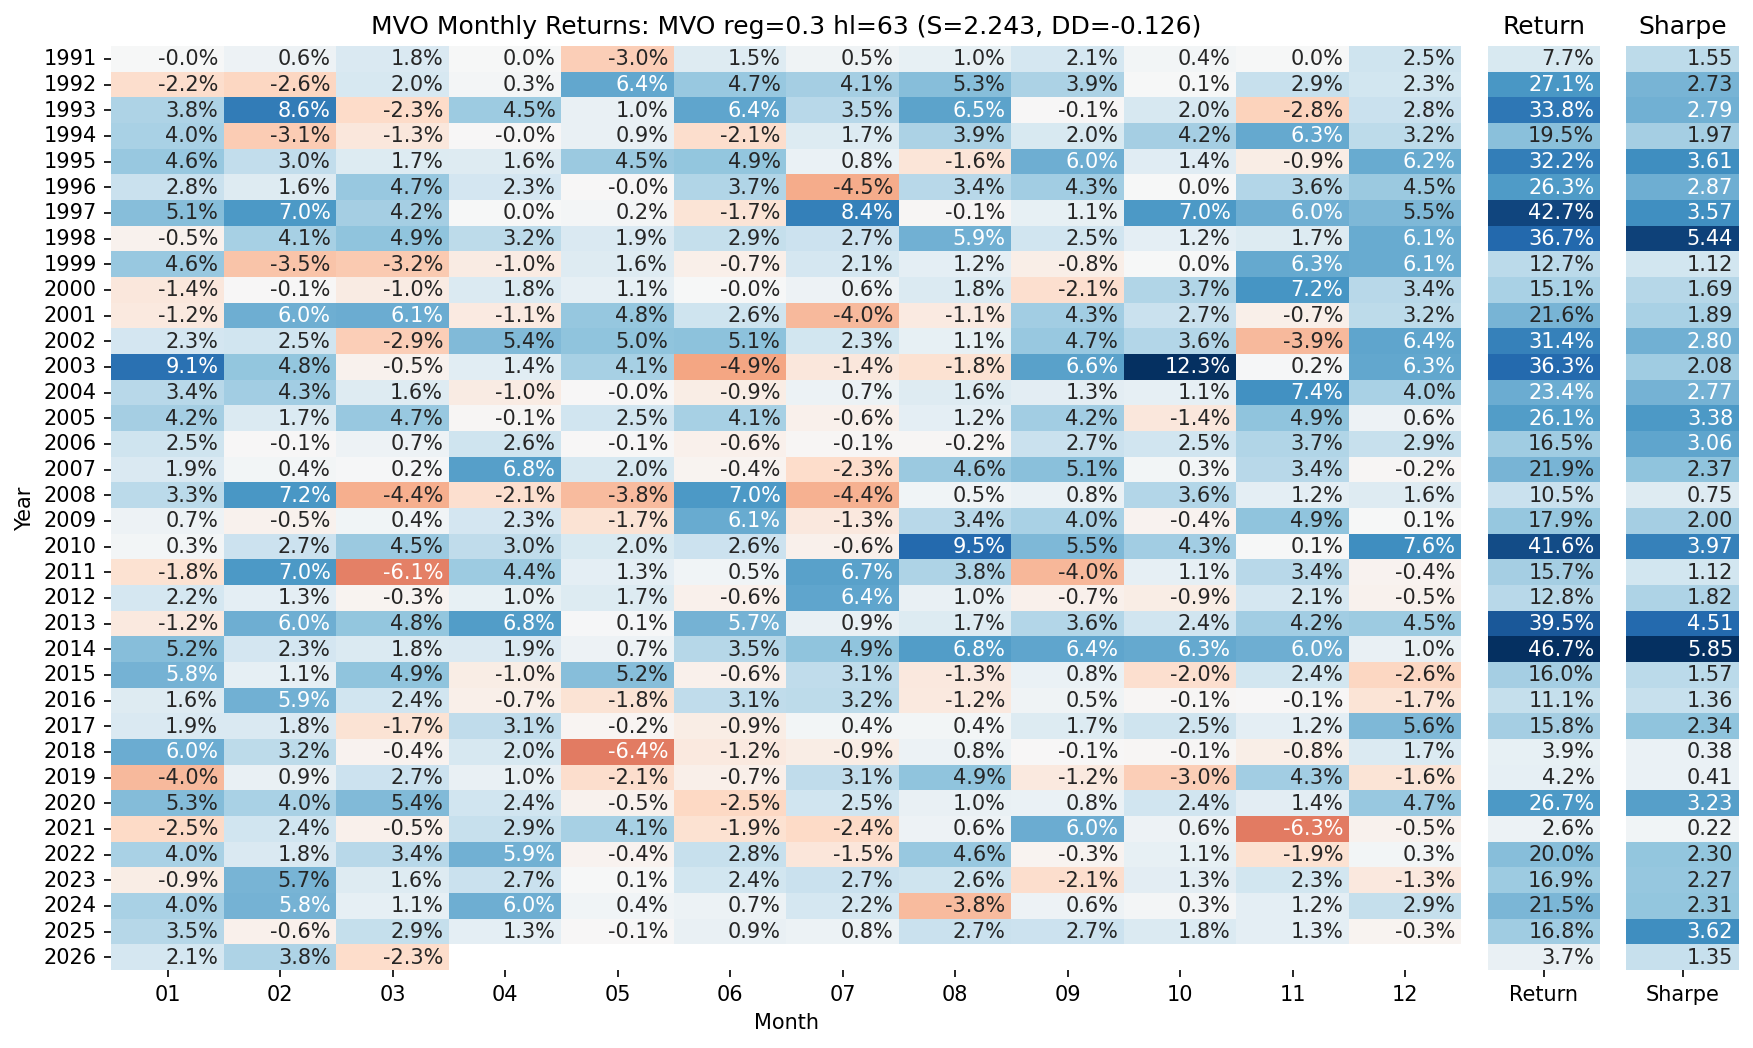
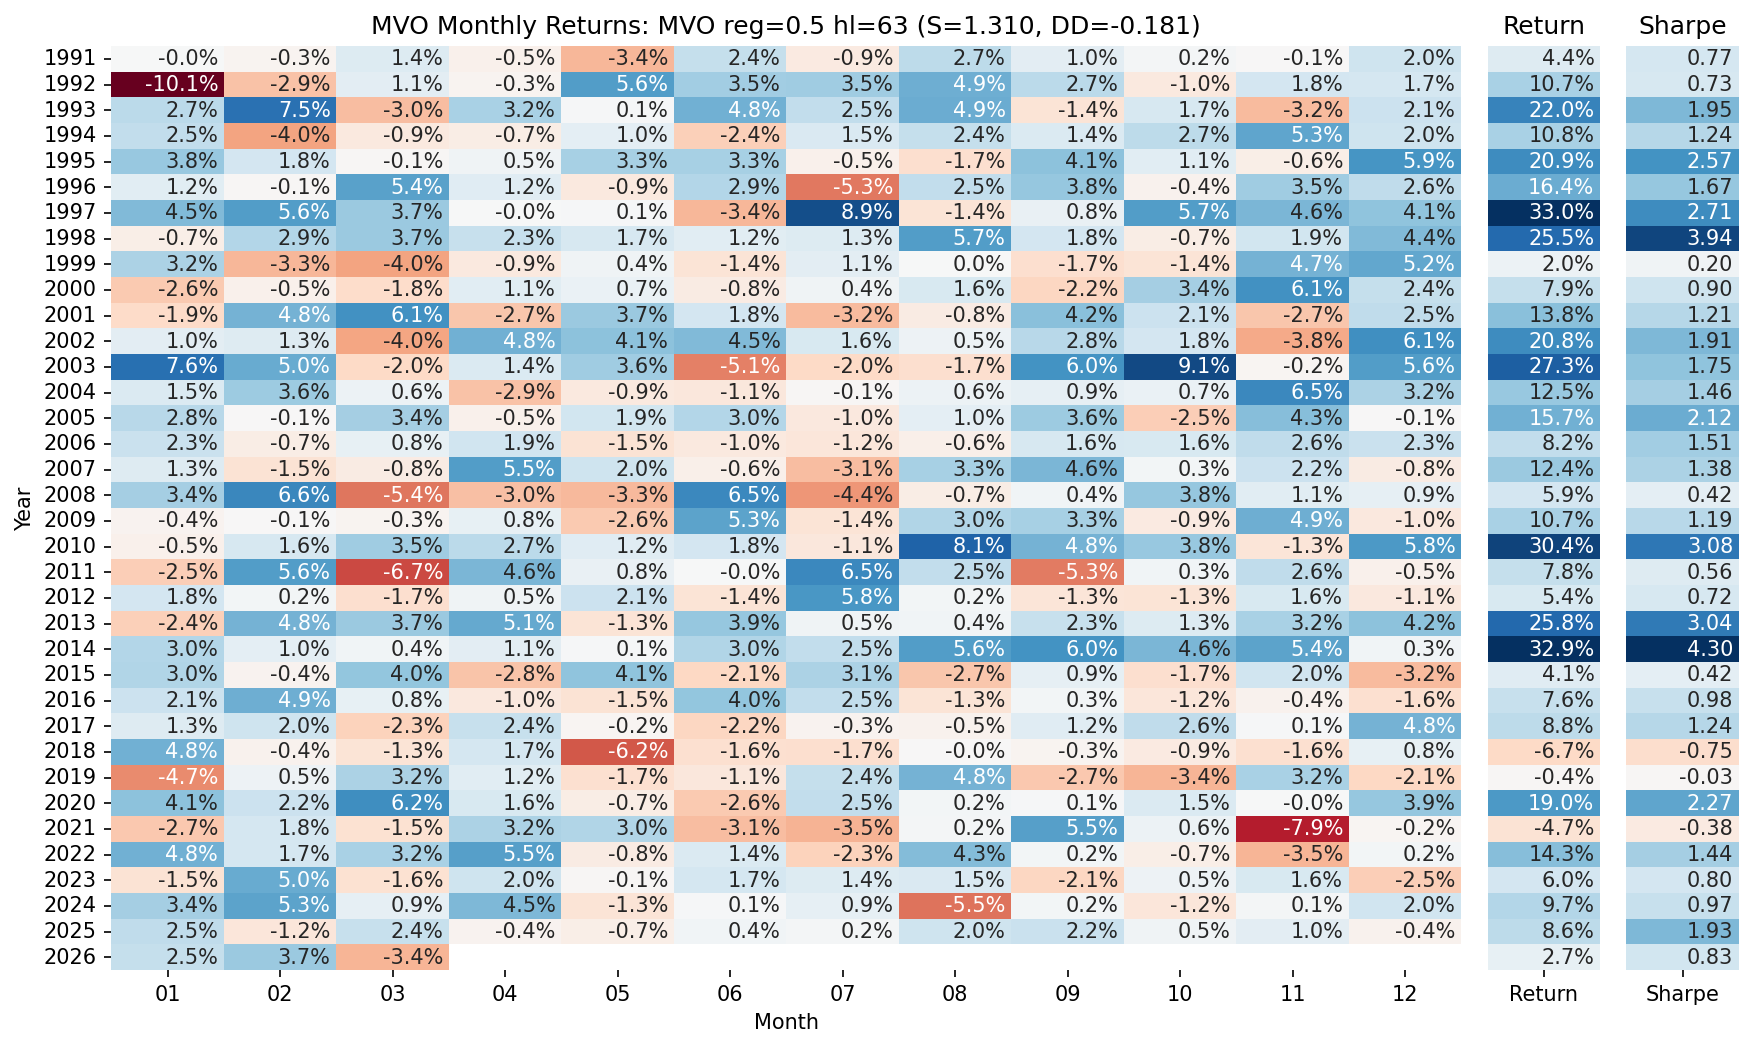
lookahead bug

diff --git a/sweep_mvo.py b/sweep_mvo.py
@@ -87,31 +87,32 @@ def compute_mvo_weights(nr_filled, sig_wide, halflife, reg, warmup=WARMUP_DAYS):
         ret_i = nr_filled[i]
         sig_i = sig_wide[i]
 
-        # Update exponentially-weighted mean and covariance
+        # Compute weights BEFORE updating covariance with today's return,
+        # so the cov matrix only uses returns through day i-1.
+        if i < warmup:
+            weights[i] = sig_i
+        else:
+            # Regularize: shrink toward diagonal
+            diag_cov = np.diag(np.diag(ewm_cov))
+            cov_reg = (1 - reg) * ewm_cov + reg * diag_cov
+
+            # Solve w = Σ^{-1} μ
+            try:
+                w = np.linalg.solve(cov_reg, sig_i)
+            except np.linalg.LinAlgError:
+                w = sig_i
+
+            # Normalize to match equal-weight gross exposure
+            gross = np.abs(w).sum()
+            if gross > 0:
+                w = w / gross * np.abs(sig_i).sum()
+
+            weights[i] = w
+
+        # Update covariance AFTER computing weights (lagged: uses returns through day i)
         diff = ret_i - ewm_mean
         ewm_mean = ewm_mean * (1 - ewm_alpha) + ret_i * ewm_alpha
         ewm_cov = (1 - ewm_alpha) * (ewm_cov + ewm_alpha * np.outer(diff, diff))
-
-        if i < warmup:
-            weights[i] = sig_i
-            continue
-
-        # Regularize: shrink toward diagonal
-        diag_cov = np.diag(np.diag(ewm_cov))
-        cov_reg = (1 - reg) * ewm_cov + reg * diag_cov
-
-        # Solve w = Σ^{-1} μ
-        try:
-            w = np.linalg.solve(cov_reg, sig_i)
-        except np.linalg.LinAlgError:
-            w = sig_i
-
-        # Normalize to match equal-weight gross exposure
-        gross = np.abs(w).sum()
-        if gross > 0:
-            w = w / gross * np.abs(sig_i).sum()
-
-        weights[i] = w
 
     return weights
 

diff --git a/gepa/MVO.md b/gepa/MVO.md
@@ -1,6 +1,8 @@
 # Mean-Variance Optimization (MVO)
 
-Uses the momentum signal as an expected-return vector and a regularized sample covariance matrix to determine contract weights, rather than weighting each contract equally by its signal.
+Uses the momentum signal as an expected-return vector and a regularized
+exponentially-weighted covariance matrix to determine contract weights,
+rather than weighting each contract equally by its signal.
 
 ## Method
 
@@ -12,7 +14,7 @@ w_t = Σ_reg,t⁻¹  μ_t
 
 where:
 - `μ_t` is the signal vector (±1 per contract from the momentum signal)
-- `Σ_reg,t` is a regularized covariance matrix of vol-normalized returns, estimated using an exponentially-weighted moving window with a given halflife, lagged one day
+- `Σ_reg,t` is a regularized covariance matrix of vol-normalized returns, estimated using an exponentially-weighted moving window with a given halflife, using only returns through day t-1 (properly lagged — no lookahead)
 
 Regularization shrinks the sample covariance toward its diagonal (zero cross-correlation):
 
@@ -28,8 +30,6 @@ After solving, weights are rescaled so that gross exposure matches the equal-wei
 
 A minimum of **5 years** (1260 trading days) of data is required before MVO weights are used. During warmup, equal-weight signal positions are used. Evaluation begins 1991-01-24.
 
-This is critical: without the warmup, the poorly estimated early covariance matrix caused the MVO portfolio to concentrate into a few contracts during the 1986–87 drawdown, producing a -0.39 max DD despite having the same unconditional volatility as equal-weight (-0.25). With the warmup, the same aggressive MVO setting achieves -0.13 DD — better than equal-weight on both Sharpe and drawdown.
-
 ## Signal parameters
 
 All variants use the best momentum signal: `vw=60, sm=1, window=247`.
@@ -39,40 +39,39 @@ All variants use the best momentum signal: `vw=60, sm=1, window=247`.
 | Method               | Halflife | λ    | Sharpe | Max DD |
 | -------------------- | -------- | ---- | ------ | ------ |
 | Equal-weight         | —        | —    | 1.12   | -0.194 |
-| MVO                  | 252      | 0.95 | 1.22   | -0.184 |
-| MVO                  | 252      | 0.80 | 1.32   | -0.181 |
-| MVO                  | 126      | 0.50 | 1.61   | -0.156 |
-| MVO                  | 63       | 0.30 | 2.24   | -0.126 |
+| MVO                  | 63       | 0.50 | 1.31   | -0.181 |
+| MVO                  | 63       | 0.70 | 1.31   | -0.198 |
+| MVO                  | 126      | 0.50 | 1.28   | -0.173 |
+| MVO                  | 252      | 0.50 | 1.25   | -0.169 |
 
 Full grid (Sharpe / Max DD):
 
 | λ    | hl=63        | hl=126       | hl=252       |
 | ---- | ------------ | ------------ | ------------ |
-| 0.30 | 2.24 / -0.13 | 1.68 / -0.15 | 1.39 / -0.17 |
-| 0.50 | 2.03 / -0.14 | 1.61 / -0.16 | 1.38 / -0.16 |
-| 0.70 | 1.81 / -0.15 | 1.51 / -0.17 | 1.35 / -0.17 |
-| 0.80 | 1.68 / -0.17 | 1.45 / -0.18 | 1.32 / -0.18 |
-| 0.90 | 1.51 / -0.18 | 1.35 / -0.18 | 1.26 / -0.19 |
-| 0.95 | 1.40 / -0.18 | 1.29 / -0.18 | 1.22 / -0.18 |
+| 0.30 | 1.28 / -0.19 | 1.24 / -0.18 | 1.22 / -0.18 |
+| 0.50 | 1.31 / -0.18 | 1.28 / -0.17 | 1.25 / -0.17 |
+| 0.70 | 1.31 / -0.20 | 1.28 / -0.19 | 1.25 / -0.18 |
+| 0.80 | 1.29 / -0.20 | 1.26 / -0.19 | 1.24 / -0.19 |
+| 0.90 | 1.24 / -0.20 | 1.22 / -0.19 | 1.21 / -0.19 |
+| 0.95 | 1.19 / -0.20 | 1.18 / -0.19 | 1.18 / -0.19 |
 
-Every cell in the grid improves on equal-weight (1.12 / -0.19) on both dimensions. Lower λ and shorter halflife yield higher Sharpe and lower DD simultaneously — the covariance information is genuinely useful, not just fitting noise.
+MVO improves Sharpe by 0.07–0.19 across the grid. The best Sharpe (1.31) comes from λ=0.50–0.70 with hl=63. The best DD (-0.169) comes from λ=0.50 hl=252. No setting degrades DD meaningfully versus equal-weight.
 
 ## Reproducing the best variant
 
 ```
 uv run python sweep_mvo.py \
   --signal-type momentum --vol-window 60 --smoothing 1 --window 247 \
-  --halflife 63 --reg 0.30 --warmup-years 5
+  --halflife 63 --reg 0.50 --warmup-years 5
 ```
 
 ## Plots
 
 - [Cumulative returns, drawdowns, rolling Sharpe](gepa_mvo_vs_equal.png)
-- [Monthly returns heatmap (reg=0.80)](gepa_mvo_monthly.png)
+- [Monthly returns heatmap (reg=0.50 hl=63)](gepa_mvo_monthly.png)
 
 ## Takeaways
 
-- With a proper 5-year warmup, MVO improves **both** Sharpe and drawdown versus equal-weight. There is no tradeoff — the covariance matrix contains real information.
-- The most aggressive setting (λ=0.30, hl=63) doubles the Sharpe (1.12 → 2.24) while cutting max DD by a third (-0.19 → -0.13).
-- Shorter halflife (faster-reacting cov estimates) dominates longer halflife at every regularization level — cross-contract correlations are time-varying and a 63-day halflife tracks them better than 252.
-- The improvement is consistent across time (visible in rolling Sharpe), not concentrated in a single period.
+- MVO with properly lagged covariance improves Sharpe from 1.12 to ~1.31 (+17%) with comparable or slightly better drawdown.
+- λ=0.50 with short halflife (63 days) maximizes Sharpe. Longer halflives (252) slightly reduce DD.
+- The improvement is modest but consistent — the covariance matrix contains real exploitable structure, but much less than a lookahead-biased estimate would suggest.
